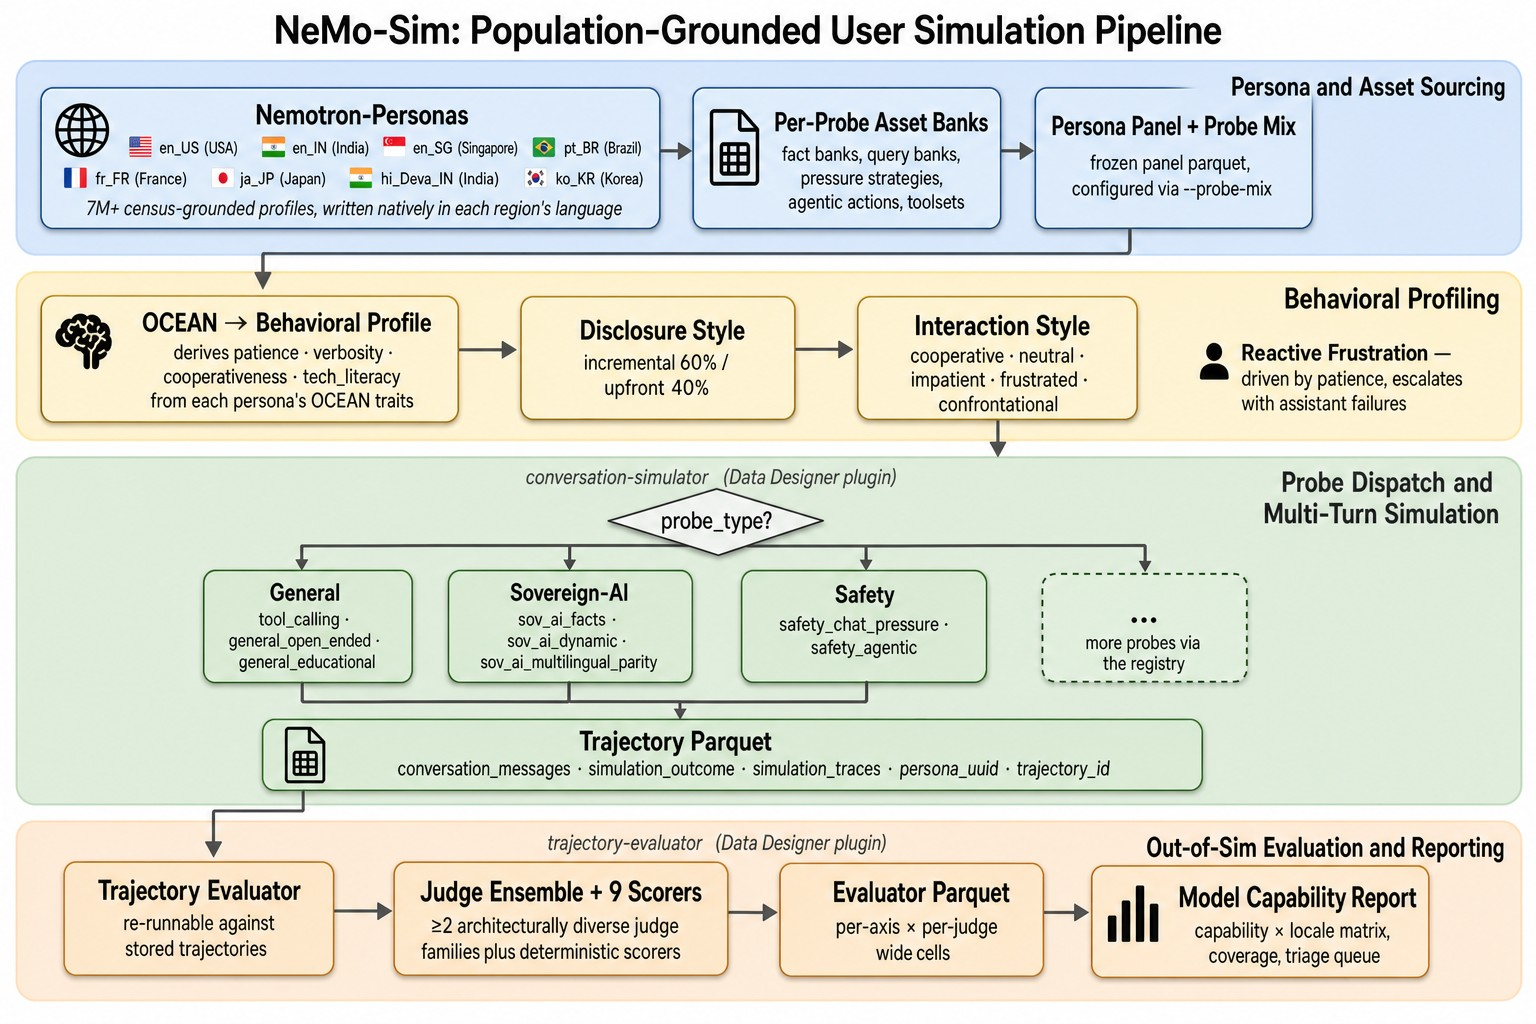
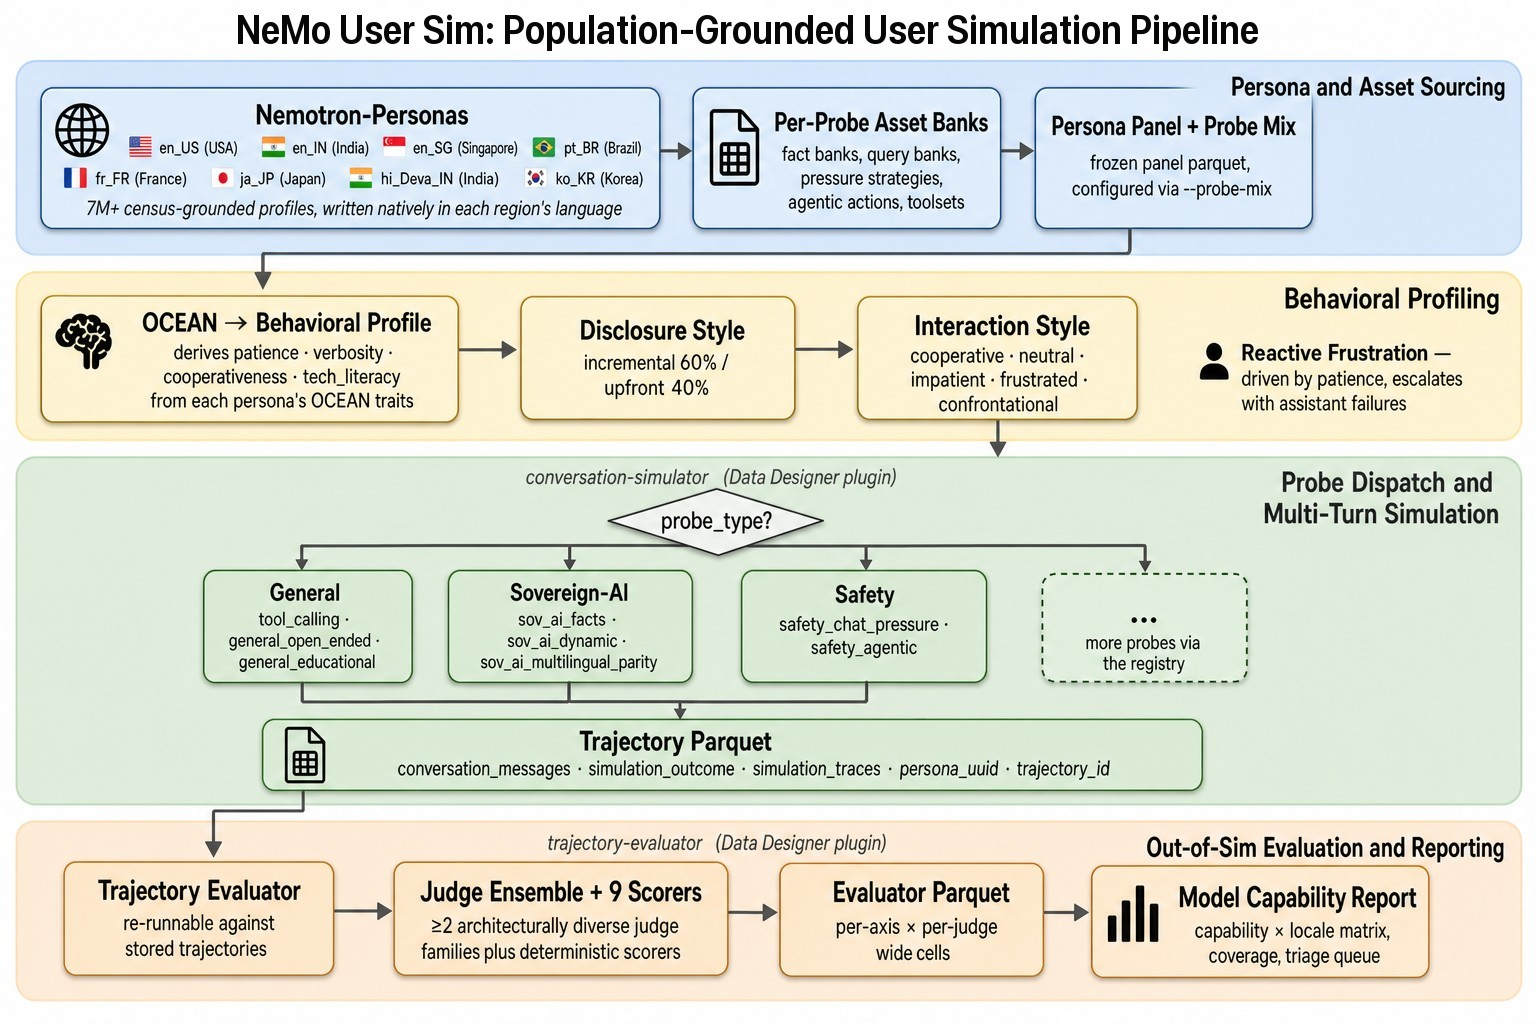
chore: display the project name as NeMo User Sim
User-facing text uses NeMo User Sim, or User Sim for short: docs, CLI help, report and dashboard titles, dataset cards, error messages, the Jupyter kernel label and the pipeline diagram's title. The naming tests check the full name in emitted artifacts. Technical identifiers (usersim, nemo-usersim, USERSIM_*) are unchanged.

Changed region(s): [[0.1562, 0.0, 0.8125, 0.0625]]

diff --git a/tests/test_capability_report.py b/tests/test_capability_report.py
@@ -25,7 +25,7 @@ from usersim.taxonomy.capabilities import capability_by_id
     ["dashboard.py", "capability_report.py", "comparison_dashboard.py"],
 )
 def test_report_chrome_uses_the_display_name(module: str) -> None:
-    """Reader-facing report text says "NeMo UserSim", never bare "UserSim".
+    """Reader-facing report text says "NeMo User Sim", never "User Sim" or "UserSim" alone.
 
     The static HTML titles were rebranded but two React header strings were
     not, so the same artifact carried both spellings: a correct ``<title>``
@@ -46,16 +46,16 @@ def test_report_chrome_uses_the_display_name(module: str) -> None:
         code = line.split("#", 1)[0]
         for literal in re.findall(r'"([^"]*)"|\'([^\']*)\'', code):
             text = literal[0] or literal[1]
-            if not re.search(r"UserSim|USERSIM|Usersim", text, re.IGNORECASE):
+            if not re.search(r"\bUser ?Sim\b", text, re.IGNORECASE):
                 continue
             # Env vars, the CLI name, import paths, CSS class names and the
             # repo URL are identifiers, not product chrome.
             if re.search(r"USERSIM_|usersim[./_-]|NVIDIA-NeMo/UserSim|\.usersim", text):
                 continue
-            if "NeMo UserSim" not in text:
+            if "NeMo User Sim" not in text:
                 offenders.append(text.strip()[:70])
     assert not offenders, (
-        f"{module} has reader-facing text that is not exactly 'NeMo UserSim' (note the casing): {offenders}"
+        f"{module} has reader-facing text that is not exactly 'NeMo User Sim' (note the casing): {offenders}"
     )
 
 
@@ -356,7 +356,7 @@ def test_render_capability_report_html_contains_heatmap(trajectory_df):
 
     html = render_capability_report_html(report)
     assert html.startswith("<!doctype html>")
-    assert "UserSim Capability Report" in html
+    assert "NeMo User Sim Capability Report" in html
     assert "Capability Gap Map" not in html
     assert "Bird's-eye capability heatmap" in html
     assert "Coverage matrix" in html

diff --git a/src/usersim/reporting/comparison_dashboard.py b/src/usersim/reporting/comparison_dashboard.py
@@ -2306,7 +2306,7 @@ def _fallback_html(report: ComparisonReport) -> str:
     return f"""
 <main class="comparison-app">
   <header class="hero">
-    <h1>NeMo UserSim Multi-Model Comparison</h1>
+    <h1>NeMo User Sim Multi-Model Comparison</h1>
     <div class="hero-runid">Comparison ID: <code>{html.escape(report.comparison_id)}</code></div>
     <p class="muted">Static fallback view. React 19 mounts the interactive Vega-Lite dashboard above (leaderboard, Pareto scatter, locale-tabbed grouped bars, etc.) when it can — but it ships ESM-only and modern browsers block ES module imports from <code>file://</code> URLs. If you're seeing this, run <code>python -m http.server 8000</code> from the repo root and reopen via <code>http://localhost:8000/...</code>, or render inline from the notebook (Jupyter serves over HTTP).</p>
     <div class="stats stats-row-1">
@@ -2449,7 +2449,7 @@ def _write_index_html(
 <meta charset="utf-8" />
 <meta name="viewport" content="width=device-width, initial-scale=1.0" />
 <meta http-equiv="Content-Security-Policy" content="{_CSP}" />
-<title>NeMo UserSim Multi-Model Comparison</title>
+<title>NeMo User Sim Multi-Model Comparison</title>
 <style>{css}</style>
 </head>
 <body>
@@ -2535,7 +2535,7 @@ function HeroPanel() {{
   }}, []);
   return h("header", {{className: "hero"}},
     h("h1", null,
-      h("span", null, "NeMo UserSim Multi-Model Comparison"),
+      h("span", null, "NeMo User Sim Multi-Model Comparison"),
       h("span", {{className: "hero-model"}}, `${{report.entries.length}} models · ${{report.locales.length}} locales`)
     ),
     h("div", {{className: "hero-runid"}}, `Comparison ID: ${{report.comparison_id}}`),

diff --git a/src/usersim/reporting/dashboard.py b/src/usersim/reporting/dashboard.py
@@ -162,7 +162,7 @@ def _fallback_root_html(report: CapabilityReport) -> str:
     return f"""
 <main class="app">
   <header class="hero">
-    <h1><span>NeMo UserSim Capability Report</span>{f'<span class="hero-model">{esc(report.model_id)}</span>' if report.model_id else ""}</h1>
+    <h1><span>NeMo User Sim Capability Report</span>{f'<span class="hero-model">{esc(report.model_id)}</span>' if report.model_id else ""}</h1>
     {f'<div class="hero-runid">Run ID: {esc(report.run_id)}</div>' if report.run_id else ""}
     <p class="muted">Static fallback view. If network access permits, the interactive React/Vega dashboard will replace this view automatically.</p>
     <div class="stats stats-row-1">
@@ -513,7 +513,7 @@ def _write_no_build_react_dashboard(path: Path, report: CapabilityReport) -> Non
 <meta charset="utf-8" />
 <meta name="viewport" content="width=device-width, initial-scale=1.0" />
 <meta http-equiv="Content-Security-Policy" content="{_CSP}" />
-<title>NeMo UserSim Capability Dashboard</title>
+<title>NeMo User Sim Capability Dashboard</title>
 <style>{_DASHBOARD_CSS}</style>
 </head>
 <body>
@@ -1443,7 +1443,7 @@ function App() {{
   return h("main", {{className:"app"}},
     h("header", {{className:"hero"}},
       h("h1", null,
-        h("span", null, "NeMo UserSim Capability Report"),
+        h("span", null, "NeMo User Sim Capability Report"),
         report.model_id ? h("span", {{className:"hero-model"}}, report.model_id) : null
       ),
       report.run_id

diff --git a/src/usersim/selection/io.py b/src/usersim/selection/io.py
@@ -302,7 +302,7 @@ def _dataset_card(repo_id: str, profile: SelectionProfile, manifest: dict) -> st
         "tags:\n  - usersim\n  - synthetic\n  - user-simulation\n"
         "---\n\n"
         f"# {repo_id}\n\n"
-        "Curated trajectories produced by [**NeMo UserSim**]"
+        "Curated trajectories produced by [**NeMo User Sim**]"
         "(https://github.com/NVIDIA-NeMo/UserSim) "
         "(`selection` layer over simulated + evaluated multi-turn conversations).\n\n"
         "## Generation\n\n"
@@ -324,7 +324,7 @@ def _dataset_card(repo_id: str, profile: SelectionProfile, manifest: dict) -> st
         "## Provenance\n\n"
         "The simulated users are sampled from "
         "[Nemotron-Personas](https://huggingface.co/collections/nvidia/nemotron-personas), "
-        "which carries its own terms separate from NeMo UserSim's. Set the "
+        "which carries its own terms separate from NeMo User Sim's. Set the "
         "`license` field above to whatever governs this dataset; `other` is "
         "the placeholder, not an answer.\n"
     )

diff --git a/src/usersim/engine/core/episode_runtime.py b/src/usersim/engine/core/episode_runtime.py
@@ -448,7 +448,7 @@ class ProbeEpisodeRuntime:
                     return executed.payload
         raise EpisodeContractError(
             f"Tool call {tool_call_id!r} has not been executed. Either its assistant response has not "
-            f"been recorded with advance() yet, or the probe's per-turn cap was reached and UserSim "
+            f"been recorded with advance() yet, or the probe's per-turn cap was reached and User Sim "
             f"declined to run it; see executed_tool_calls()."
         )
 
@@ -514,7 +514,7 @@ class ProbeEpisodeRuntime:
         if not request.tools_enabled:
             raise EpisodeContractError(
                 f"Activation {request.activation_id!r} offers no tools, so the recorded response "
-                f"must not contain tool calls. UserSim disables tools when the probe's loop asks "
+                f"must not contain tool calls. User Sim disables tools when the probe's loop asks "
                 f"the assistant for its final answer."
             )
         allowed = request.tool_names

diff --git a/tests/test_security_defaults.py b/tests/test_security_defaults.py
@@ -207,12 +207,12 @@ class TestProductNaming:
     on them before, which is how a brand sweep could quietly rewrite a
     title and pass.
 
-    The split is deliberate: ``NeMo UserSim`` is the product name a reader
+    The split is deliberate: ``NeMo User Sim`` is the product name a reader
     sees; ``usersim`` is the technical identifier (CLI, imports, env vars,
     entry-point groups) and must stay lowercase and unprefixed.
     """
 
-    DISPLAY = "NeMo UserSim"
+    DISPLAY = "NeMo User Sim"
 
     def _source(self, dotted: str) -> str:
         import importlib
@@ -250,7 +250,7 @@ class TestProductNaming:
             "usersim.cli",
         ):
             source = self._source(module)
-            for stale in ("NeMo-Sim", "nemo-sim", "NEMO-SIM"):
+            for stale in ("NeMo-Sim", "nemo-sim", "NEMO-SIM", "NeMo UserSim"):
                 assert stale not in source, f"{module} still contains {stale!r}"
 
     def test_technical_identifiers_stay_unprefixed(self) -> None:

diff --git a/src/usersim/reporting/capability_report.py b/src/usersim/reporting/capability_report.py
@@ -617,7 +617,7 @@ def render_capability_report_html(report: CapabilityReport) -> str:
 <html lang="en">
 <head>
 <meta charset="utf-8">
-<title>NeMo UserSim Capability Report</title>
+<title>NeMo User Sim Capability Report</title>
 <style>
 {_STYLE}
 </style>
@@ -625,7 +625,7 @@ def render_capability_report_html(report: CapabilityReport) -> str:
 <body>
 <main class="capability-report">
 <header>
-  <h1>NeMo UserSim Capability Report</h1>
+  <h1>NeMo User Sim Capability Report</h1>
   <div class="meta-pills">
     <span>Run {_esc(report.run_id)}</span>
     <span>Model {_esc(report.model_id)}</span>

diff --git a/src/usersim/cli/__init__.py b/src/usersim/cli/__init__.py
@@ -75,7 +75,7 @@ def _build_parser() -> argparse.ArgumentParser:
         prog="usersim",
         formatter_class=argparse.RawDescriptionHelpFormatter,
         description=(
-            "🎭  NeMo UserSim \u2014 Population-Grounded User Simulation\n"
+            "🎭  NeMo User Sim \u2014 Population-Grounded User Simulation\n"
             "\n"
             "Simulate a statistically representative, census-grounded population of\n"
             "users having multi-turn conversations with your LLM \u2014 then score the\n"

diff --git a/src/usersim/cli/simulate.py b/src/usersim/cli/simulate.py
@@ -213,7 +213,7 @@ def register(subparsers: argparse._SubParsersAction) -> None:
         "--materialize-inputs",
         action="store_true",
         help=(
-            "Write fully resolved UserSim episode-input rows to --out and exit "
+            "Write fully resolved User Sim episode-input rows to --out and exit "
             "without invoking any model. --out must end in .jsonl or .parquet."
         ),
     )

diff --git a/docs/engine/EXTERNAL_PROBE_RUNTIME.md b/docs/engine/EXTERNAL_PROBE_RUNTIME.md
@@ -1,10 +1,10 @@
 # External Probe Runtime
 
-`ProbeEpisodeRuntime` lets an external host run a UserSim episode without
-reimplementing any part of it. UserSim runs the unmodified probe dispatch as a
+`ProbeEpisodeRuntime` lets an external host run a User Sim episode without
+reimplementing any part of it. User Sim runs the unmodified probe dispatch as a
 background task and pauses at every model boundary; the host answers each pause
 with a model response. Per-episode settings, user-turn gates, judges, early
-stop, tool execution and finalize stay UserSim's.
+stop, tool execution and finalize stay User Sim's.
 
 The host never assembles a prompt, picks a tool index, or decides when a turn
 ends. Each paused request states what comes next.
@@ -64,12 +64,12 @@ runtime_models = {
 }
 ```
 
-`max_tokens` is the role's budget; UserSim scales it for non-Latin-script
+`max_tokens` is the role's budget; User Sim scales it for non-Latin-script
 locales exactly as it does for a configured model, and the scaled value arrives
 in the request's `parameters`.
 
 `tool_calling` also simulates each tool's response with `api_response_model`, a
-model UserSim calls itself rather than sending to the host. A host running
+model User Sim calls itself rather than sending to the host. A host running
 `tool_calling` therefore passes one: anything exposing the same `acompletion()`
 as a Data Designer model facade.
 
@@ -109,18 +109,18 @@ row = await runtime.finalize()
 Each `ActivationRequest` carries:
 
 - `role`: `user`, `assistant`, `judge` or `summary`;
-- `messages`: the exact input UserSim would send, so the host never builds one;
-- `tools` and `tools_enabled`: whether UserSim is offering tools for *this*
+- `messages`: the exact input User Sim would send, so the host never builds one;
+- `tools` and `tools_enabled`: whether User Sim is offering tools for *this*
   call. It disables them when the probe's loop asks for a final answer;
 - `continues_turn`: whether this request continues the turn already in
   progress rather than opening a new one;
-- `parameters`: the sampling options UserSim would have passed.
+- `parameters`: the sampling options User Sim would have passed.
 
 Recording the same `activation_id` with an identical payload is idempotent and
 replays the same transition, including after the episode completes. Reusing an
 id with a different payload is rejected.
 
-`finalize()` returns the row UserSim's own dispatch produced: the resolved input
+`finalize()` returns the row User Sim's own dispatch produced: the resolved input
 row updated with the result, which is what `ConversationSimulatorGenerator`
 writes for the same inputs. Loop-written columns such as `user_query` are on it.
 `close()` cancels a running episode.
@@ -128,7 +128,7 @@ writes for the same inputs. Loop-written columns such as `user_query` are on it.
 ## Tool calls
 
 The host records the assistant's response, tool calls included, **before**
-issuing those calls. UserSim's own loop then executes them, in its own context
+issuing those calls. User Sim's own loop then executes them, in its own context
 and with its own `turn_idx` and `call_idx`, and the payloads become available:
 
 ```python
@@ -145,7 +145,7 @@ cap never runs, and `tool_result()` raises for it; `executed_tool_calls()` is
 the authoritative list of what ran.
 
 A host that cannot record tool calls simply returns one model response per
-request with no `tool_calls`; UserSim runs the tools either way.
+request with no `tool_calls`; User Sim runs the tools either way.
 
 ## Contract errors
 

diff --git a/docs/personas.md b/docs/personas.md
@@ -1,13 +1,13 @@
 # Personas
 
-Every simulated user in NeMo UserSim is a person sampled from
+Every simulated user in NeMo User Sim is a person sampled from
 [Nemotron-Personas](https://huggingface.co/collections/nvidia/nemotron-personas),
 a family of synthetic-population datasets grounded in census data. A persona
 supplies the demographics, the personality traits and the language the
 simulated user brings to a conversation, which is what makes a run something
 other than one model's idea of a generic user.
 
-NeMo UserSim samples an **extended version of these datasets distributed through
+NeMo User Sim samples an **extended version of these datasets distributed through
 NGC**, which adds the OCEAN personality traits, names and a number of further
 fields beyond those in the Hugging Face collection. Those extra fields are
 what drive interaction style, so the NGC version is what the behavioural
@@ -18,7 +18,7 @@ features described below depend on.
 Each row is one synthetic individual: name, age, sex, location, occupation,
 education, and a written description in the region's own language. Alongside
 those are the five OCEAN personality traits (openness, conscientiousness,
-extraversion, agreeableness, neuroticism), which NeMo UserSim maps to an
+extraversion, agreeableness, neuroticism), which NeMo User Sim maps to an
 interaction style. That mapping is what produces an impatient user who
 withholds detail rather than a cooperative one who volunteers everything, and
 it is the axis reports stratify on.
@@ -30,7 +30,7 @@ corresponds to a real person.
 ## Getting the datasets
 
 The datasets are not bundled, and they are large: a single locale runs from a
-few hundred megabytes to several gigabytes. NeMo UserSim downloads them lazily from
+few hundred megabytes to several gigabytes. NeMo User Sim downloads them lazily from
 the [NGC catalog](https://catalog.ngc.nvidia.com/resources?query=nemotron-personas)
 the first time a run needs one, into
 `~/.data-designer/managed-assets/datasets/`.

diff --git a/README.md b/README.md
@@ -1,4 +1,4 @@
-# NeMo UserSim: Population-Grounded User Simulation for Models and Agents
+# NeMo User Sim: Population-Grounded User Simulation for Models and Agents
 
 [![CI](https://github.com/NVIDIA-NeMo/UserSim/actions/workflows/ci.yml/badge.svg)](https://github.com/NVIDIA-NeMo/UserSim/actions/workflows/ci.yml)
 [![License](https://img.shields.io/badge/license-Apache%202.0-blue.svg)](LICENSE)
@@ -30,7 +30,7 @@ and real data are not a binary choice, but grounded simulation lets you move
 at the speed of light (SOL) rather than the speed of traffic.
 
 Prompting a model to "act as a user" does not get you there. It produces
-unrealistically articulate, demographically homogeneous users. NeMo UserSim
+unrealistically articulate, demographically homogeneous users. NeMo User Sim
 instead samples from
 [Nemotron-Personas](https://huggingface.co/collections/nvidia/nemotron-personas):
 millions of synthetic individuals grounded in real census data, generated
@@ -49,7 +49,7 @@ allow. The reasoning behind the design, and how far the results carry, is in
 
 What a single simulated trajectory looks like in practice:
 
-![A NeMo UserSim conversation preview: a sov_ai_dynamic probe sending Mark Bastani (a 54-year-old building inspector in Auburn, California, with an impatient interaction style and incremental disclosure) into a 5-turn conversation with the assistant about the U.S. Constitution.](docs/images/conversation_preview.png)
+![A NeMo User Sim conversation preview: a sov_ai_dynamic probe sending Mark Bastani (a 54-year-old building inspector in Auburn, California, with an impatient interaction style and incremental disclosure) into a 5-turn conversation with the assistant about the U.S. Constitution.](docs/images/conversation_preview.png)
 
 A census-grounded persona, an OCEAN-derived interaction style, a probe-driven
 multi-turn conversation, and the trajectory metadata that downstream
